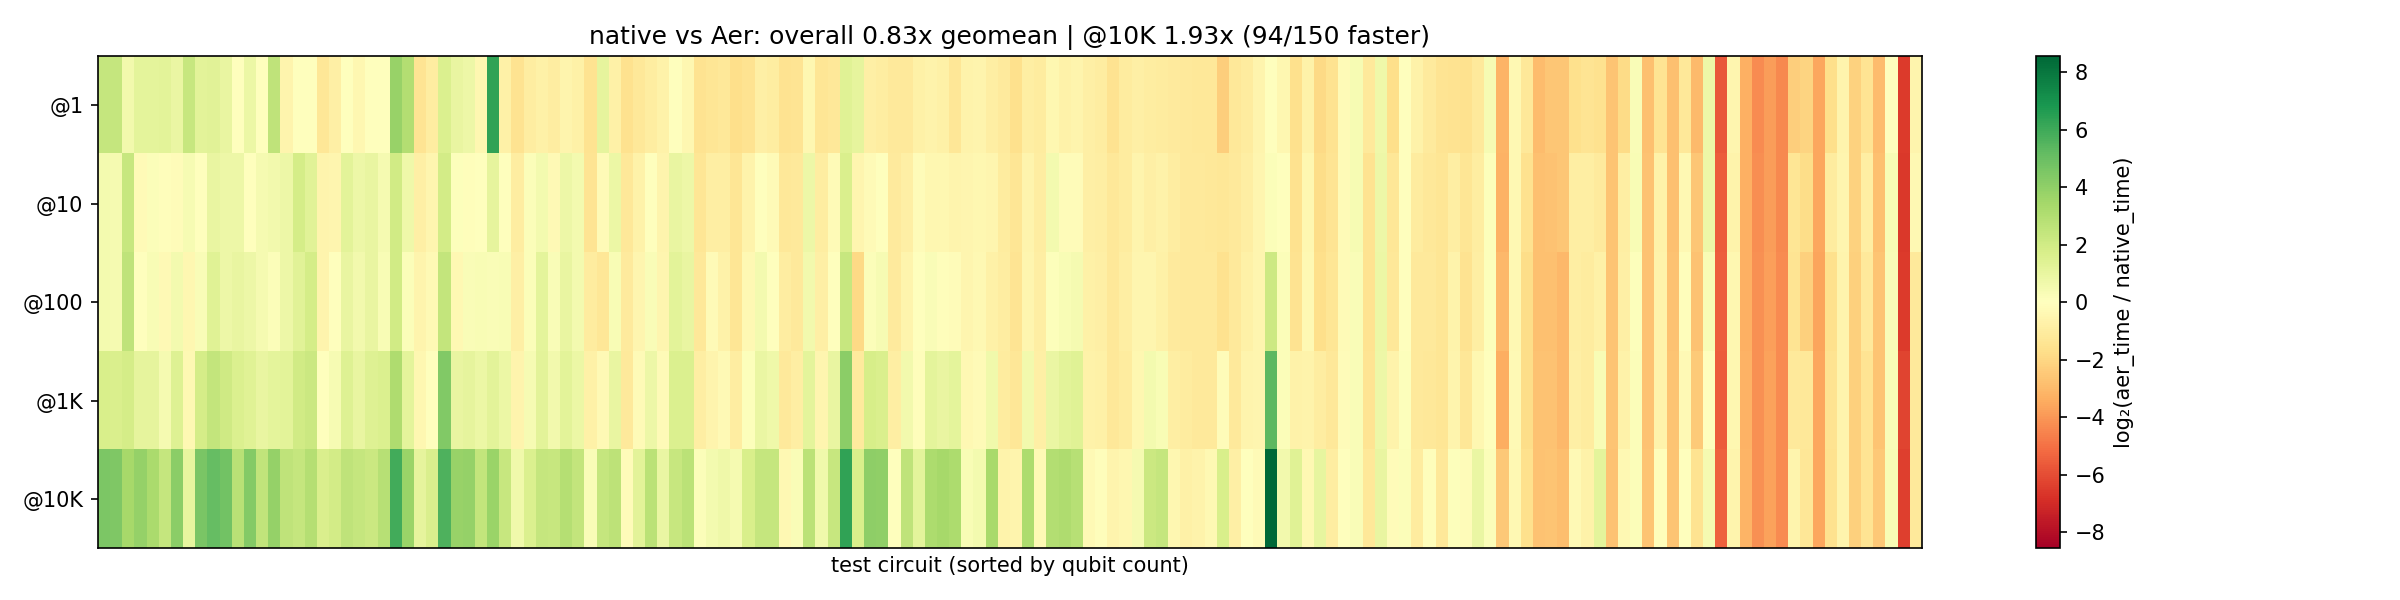
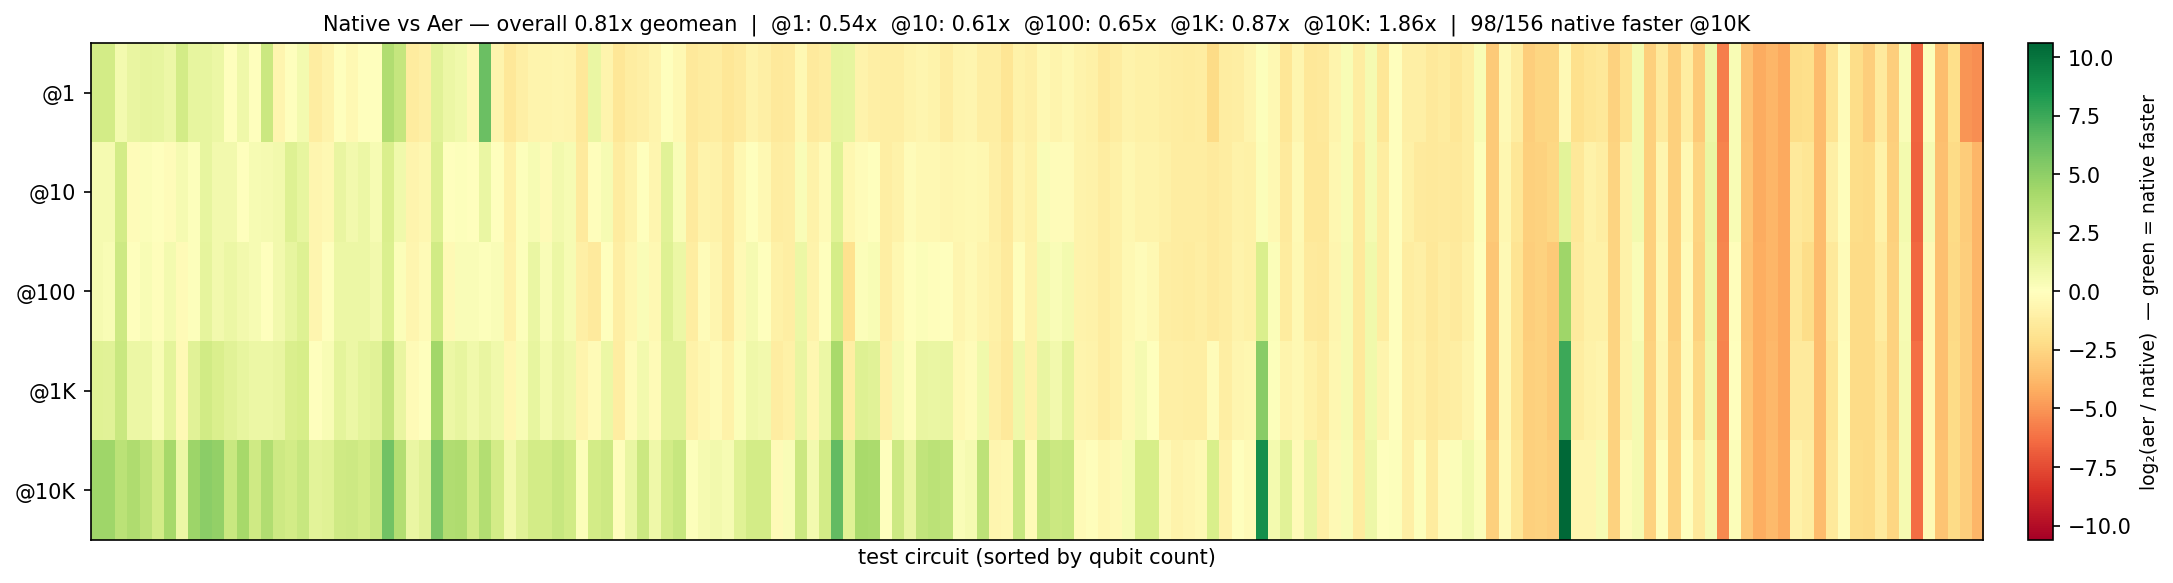
Record idx 29: single-qubit gate fusion results

diff --git a/docs/experiment-log.md b/docs/experiment-log.md
@@ -45,3 +45,4 @@ Metric column: core-6 @1000 total for idx 0-24; full-suite @1000 total (complete
 | 26 | `c97e97f` | Two optimizations: (1) Fused multiply-add (`add_(alpha=)`) for dense gates, eliminating half the scalar broadcasts. (2) In-place view multiplication for 1q/2q diagonal gates, replacing `torch.where` + `scalar_tensor` + `fill_` (57% of CPU time for 24q IQP). 72 cases improved, 4 regressed. Geomean 1.07x. | 80.6s (151 cases) | Worked (1.05x) |
 | 27 | `3cb57a8` | Compile-time scalar pre-caching. At compile time, extract all per-gate scalars into a single flat device tensor (one CPU→device transfer). During execution, `buf[offset]` returns a 0-dim device tensor, eliminating per-gate `scalar_tensor` → `copy_` overhead. On MPS, only applied at ≥17q where per-gate copy_ cost exceeds cache-build overhead. CPU always caches (avoids Python→C++ scalar conversion). 84 improved, 5 regressed. Geomean 1.07x. | 77.5s (151 cases) | Worked (1.04x) |
 | 28 | `67138d8` | Double-buffer swap for MPS dense gates. Pre-allocate alternate state buffer, write results via `torch.mul(out=)`, swap pointers. Eliminates per-gate `torch.stack` allocation (128MB at 24q). MPS-only — CPU retains fma+stack. Also clones arena entries before gate loops to prevent in-place corruption. `brickwork_entangler_rt_16` 6.1x, `parametric_brickwork_rt_16` 4.6x, `brickwork_entangler_rt_20` 1.9x faster. 46 improved, 5 real regressions (all <16ms). Geomean 1.09x. | 71.9s (151 cases) | Worked (1.08x) |
+| 29 | `284c00a` | Compile-time single-qubit gate fusion. Consecutive 1q gates on the same qubit fused into a single gate by multiplying their 2x2 matrices at compile time (numpy). Handles dense, diagonal, and permutation 1q gates uniformly; near-identity results dropped entirely. Applied at ≥17q where per-gate MPS cost justifies compile overhead. `parametric_brickwork_rt_24` 1.71x, `brickwork_entangler_rt_24` 1.31x, `hw_efficient_ansatz_rt_24` 1.20x faster. 130 improved, 83 regressed. Geomean 1.01x. | 66.5s (151 cases) | Worked (1.08x) |

diff --git a/README.md b/README.md
@@ -6,7 +6,7 @@ A state-vector quantum circuit simulator built from scratch with PyTorch, target
 
 156 test circuits spanning 2-24 qubits, 10 circuit families, static and dynamic workloads. Benchmarked against Qiskit Aer (IBM's C++ simulator) across 5 shot counts. Per-cell color is `log2(aer_time / native_time)` — green means this simulator is faster.
 
-At high shot counts (10K), native is **1.93x faster** than Aer (94/150 cases). At low shot counts (1-100), Aer's compiled C++ dispatch wins — native is 0.57-0.66x. Overall geometric mean across all 750 cells: **0.83x** (150 common cases, 5 shot counts).
+At high shot counts (10K), native is **1.86x faster** than Aer (98/156 cases). At low shot counts (1-100), Aer's compiled C++ dispatch wins — native is 0.54-0.65x. Overall geometric mean across all 780 cells: **0.81x** (156 common cases, 5 shot counts).
 
 ## Why this exists
 
